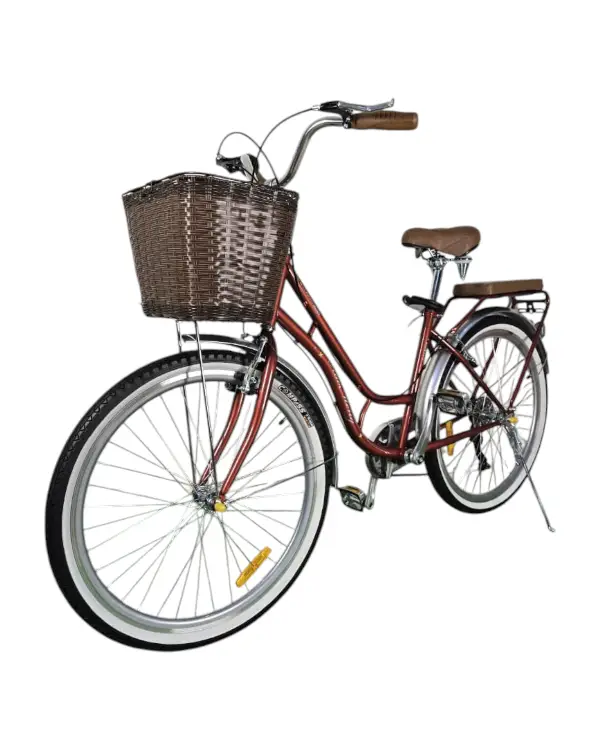
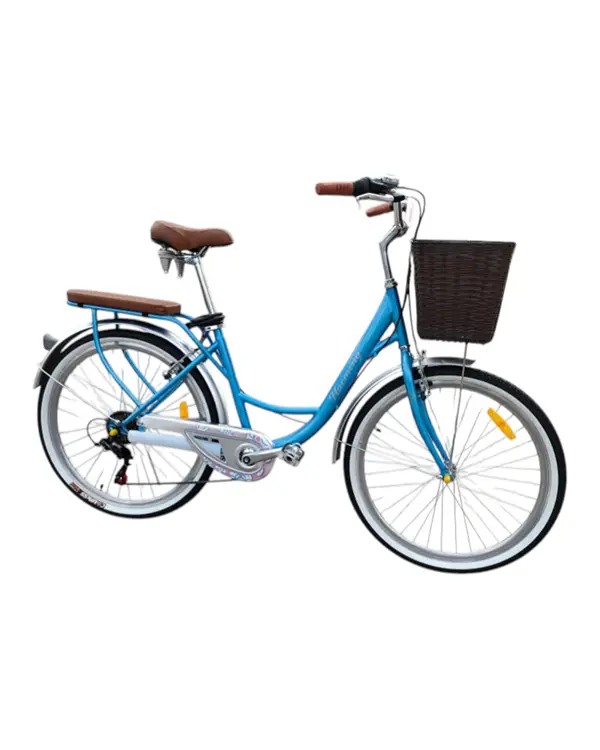
Add files via upload

diff --git a/produits/velo-madame-hadmeng-26.html b/produits/velo-madame-hadmeng-26.html
@@ -338,13 +338,19 @@
         </div>
         <div class="swiper-slide">
           <div class="swiper-zoom-container">
-            <img src="../images/slider/velo-madame-hadmeng-26-12.webp" data-src="../images/slider/velo-madame-hadmeng-26-12.webp" class="swiper-lazy" alt="vélo madame hadmeng 12" width="600" height="750">
+            <img src="../images/slider/velo-madame-hadmeng-26-13.webp" data-src="../images/slider/velo-madame-hadmeng-26-13.webp" class="swiper-lazy" alt="vélo madame hadmeng 12" width="600" height="750">
             <div class="swiper-lazy-preloader"></div>
           </div>
         </div>
         <div class="swiper-slide">
           <div class="swiper-zoom-container">
-            <img src="../images/slider/velo-madame-hadmeng-26-13.webp" data-src="../images/slider/velo-madame-hadmeng-26-13.webp" class="swiper-lazy" alt="vélo madame hadmeng 13" width="600" height="750">
+            <img src="../images/slider/velo-madame-hadmeng-26-14.webp" data-src="../images/slider/velo-madame-hadmeng-26-14.webp" class="swiper-lazy" alt="vélo madame hadmeng 13" width="600" height="750">
+            <div class="swiper-lazy-preloader"></div>
+          </div>
+        </div>
+         <div class="swiper-slide">
+          <div class="swiper-zoom-container">
+            <img src="../images/slider/velo-madame-hadmeng-26-15.webp" data-src="../images/slider/velo-madame-hadmeng-26-15.webp" class="swiper-lazy" alt="vélo madame hadmeng 14" width="600" height="750">
             <div class="swiper-lazy-preloader"></div>
           </div>
         </div>
@@ -394,10 +400,13 @@
           <img src="../images/slider/velo-madame-hadmeng-26-miniature-11.webp" alt="Miniature 11">
         </div>
         <div class="swiper-slide">
-          <img src="../images/slider/velo-madame-hadmeng-26-miniature-12.webp" alt="Miniature 12">
+          <img src="../images/slider/velo-madame-hadmeng-26-miniature-13.webp" alt="Miniature 12">
         </div>
         <div class="swiper-slide">
-          <img src="../images/slider/velo-madame-hadmeng-26-miniature-13.webp" alt="Miniature 13">
+          <img src="../images/slider/velo-madame-hadmeng-26-miniature-14.webp" alt="Miniature 13">
+        </div>
+        <div class="swiper-slide">
+          <img src="../images/slider/velo-madame-hadmeng-26-miniature-15.webp" alt="Miniature 14">
         </div>
       </div>
     </div>
@@ -433,8 +442,11 @@
               <label>Couleur:</label>
               <div class="color-options-container">
               <div class="color-options">
-                <div class="color-option" style="background-color: #000000;" data-color="Noir" data-slide-index="11"></div>
-                <div class="color-option" style="background-color: #ffffff;" data-color="Blanc" data-slide-index="12"></div>
+                <div class="color-option" style="background-color: #ffffff;" data-color="Blanc" data-slide-index="11"></div>
+                <div class="color-option" style="background-color: #838383;" data-color="Gris" data-slide-index="13"></div>
+                <div class="color-option" style="background-color: #1c92d9;" data-color="Blue" data-slide-index="12"></div>
+                
+                
               </div>
              <button id="clear-color-selection" class="clear-selection">✕ Clear</button>
             </div>
